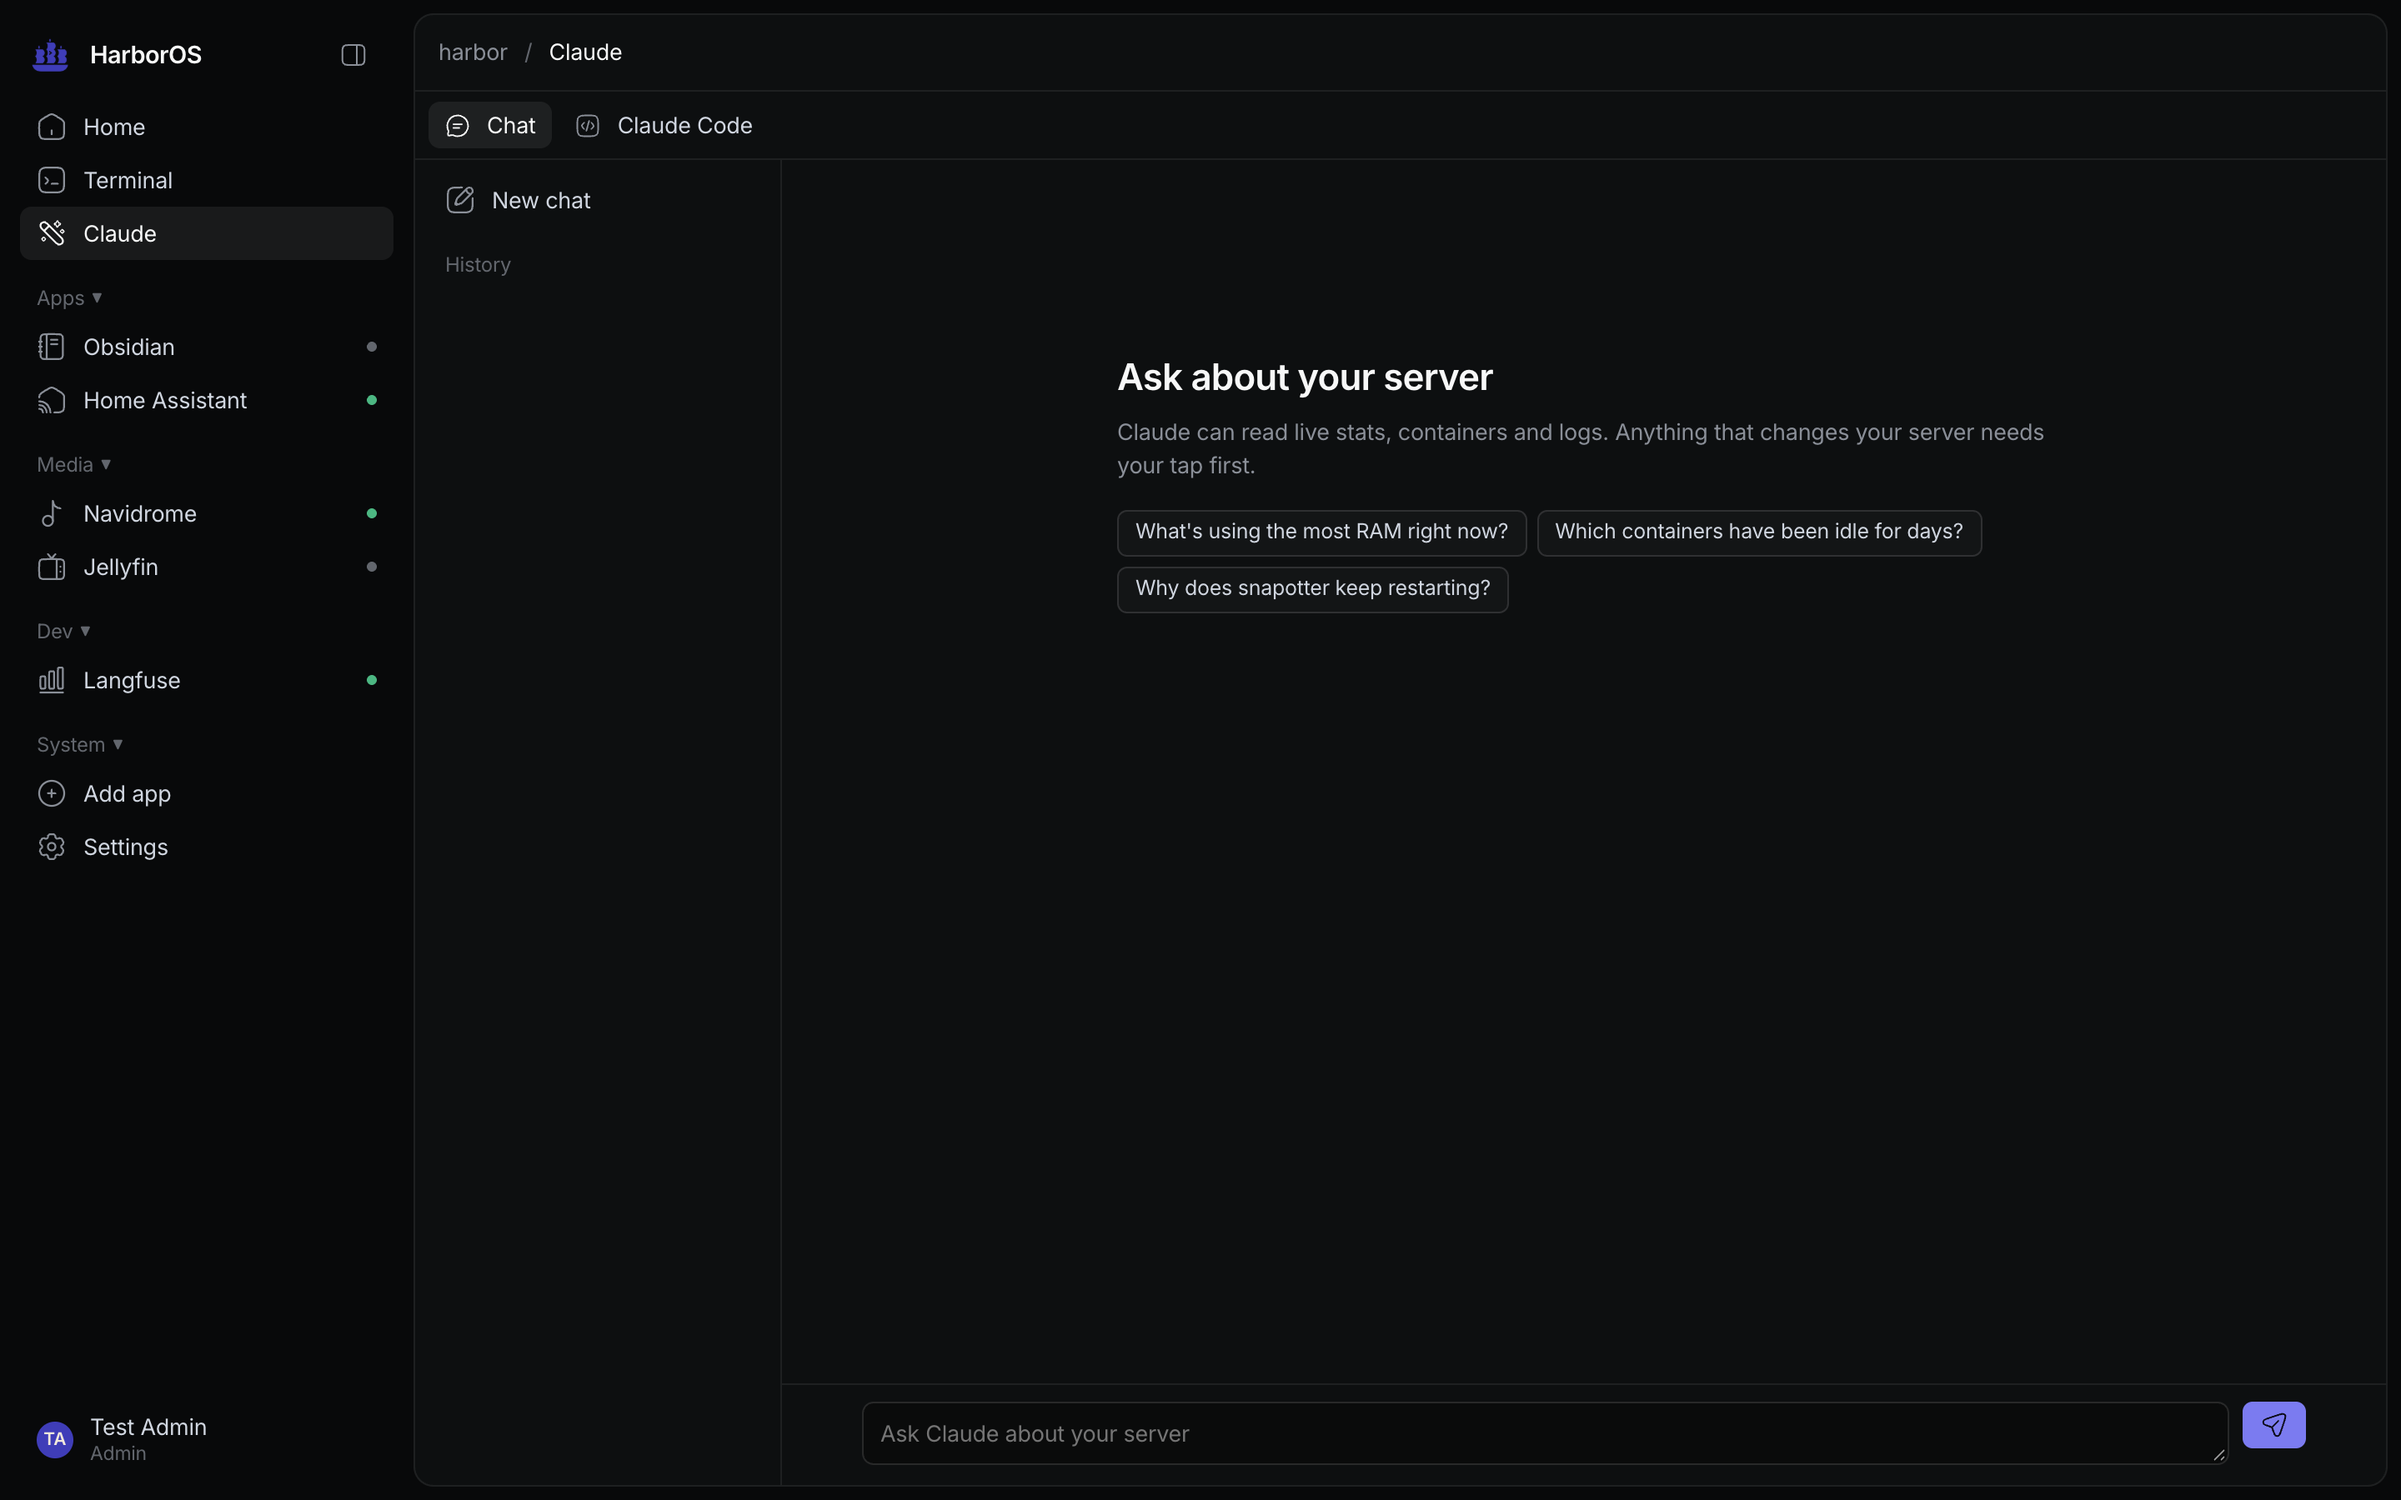
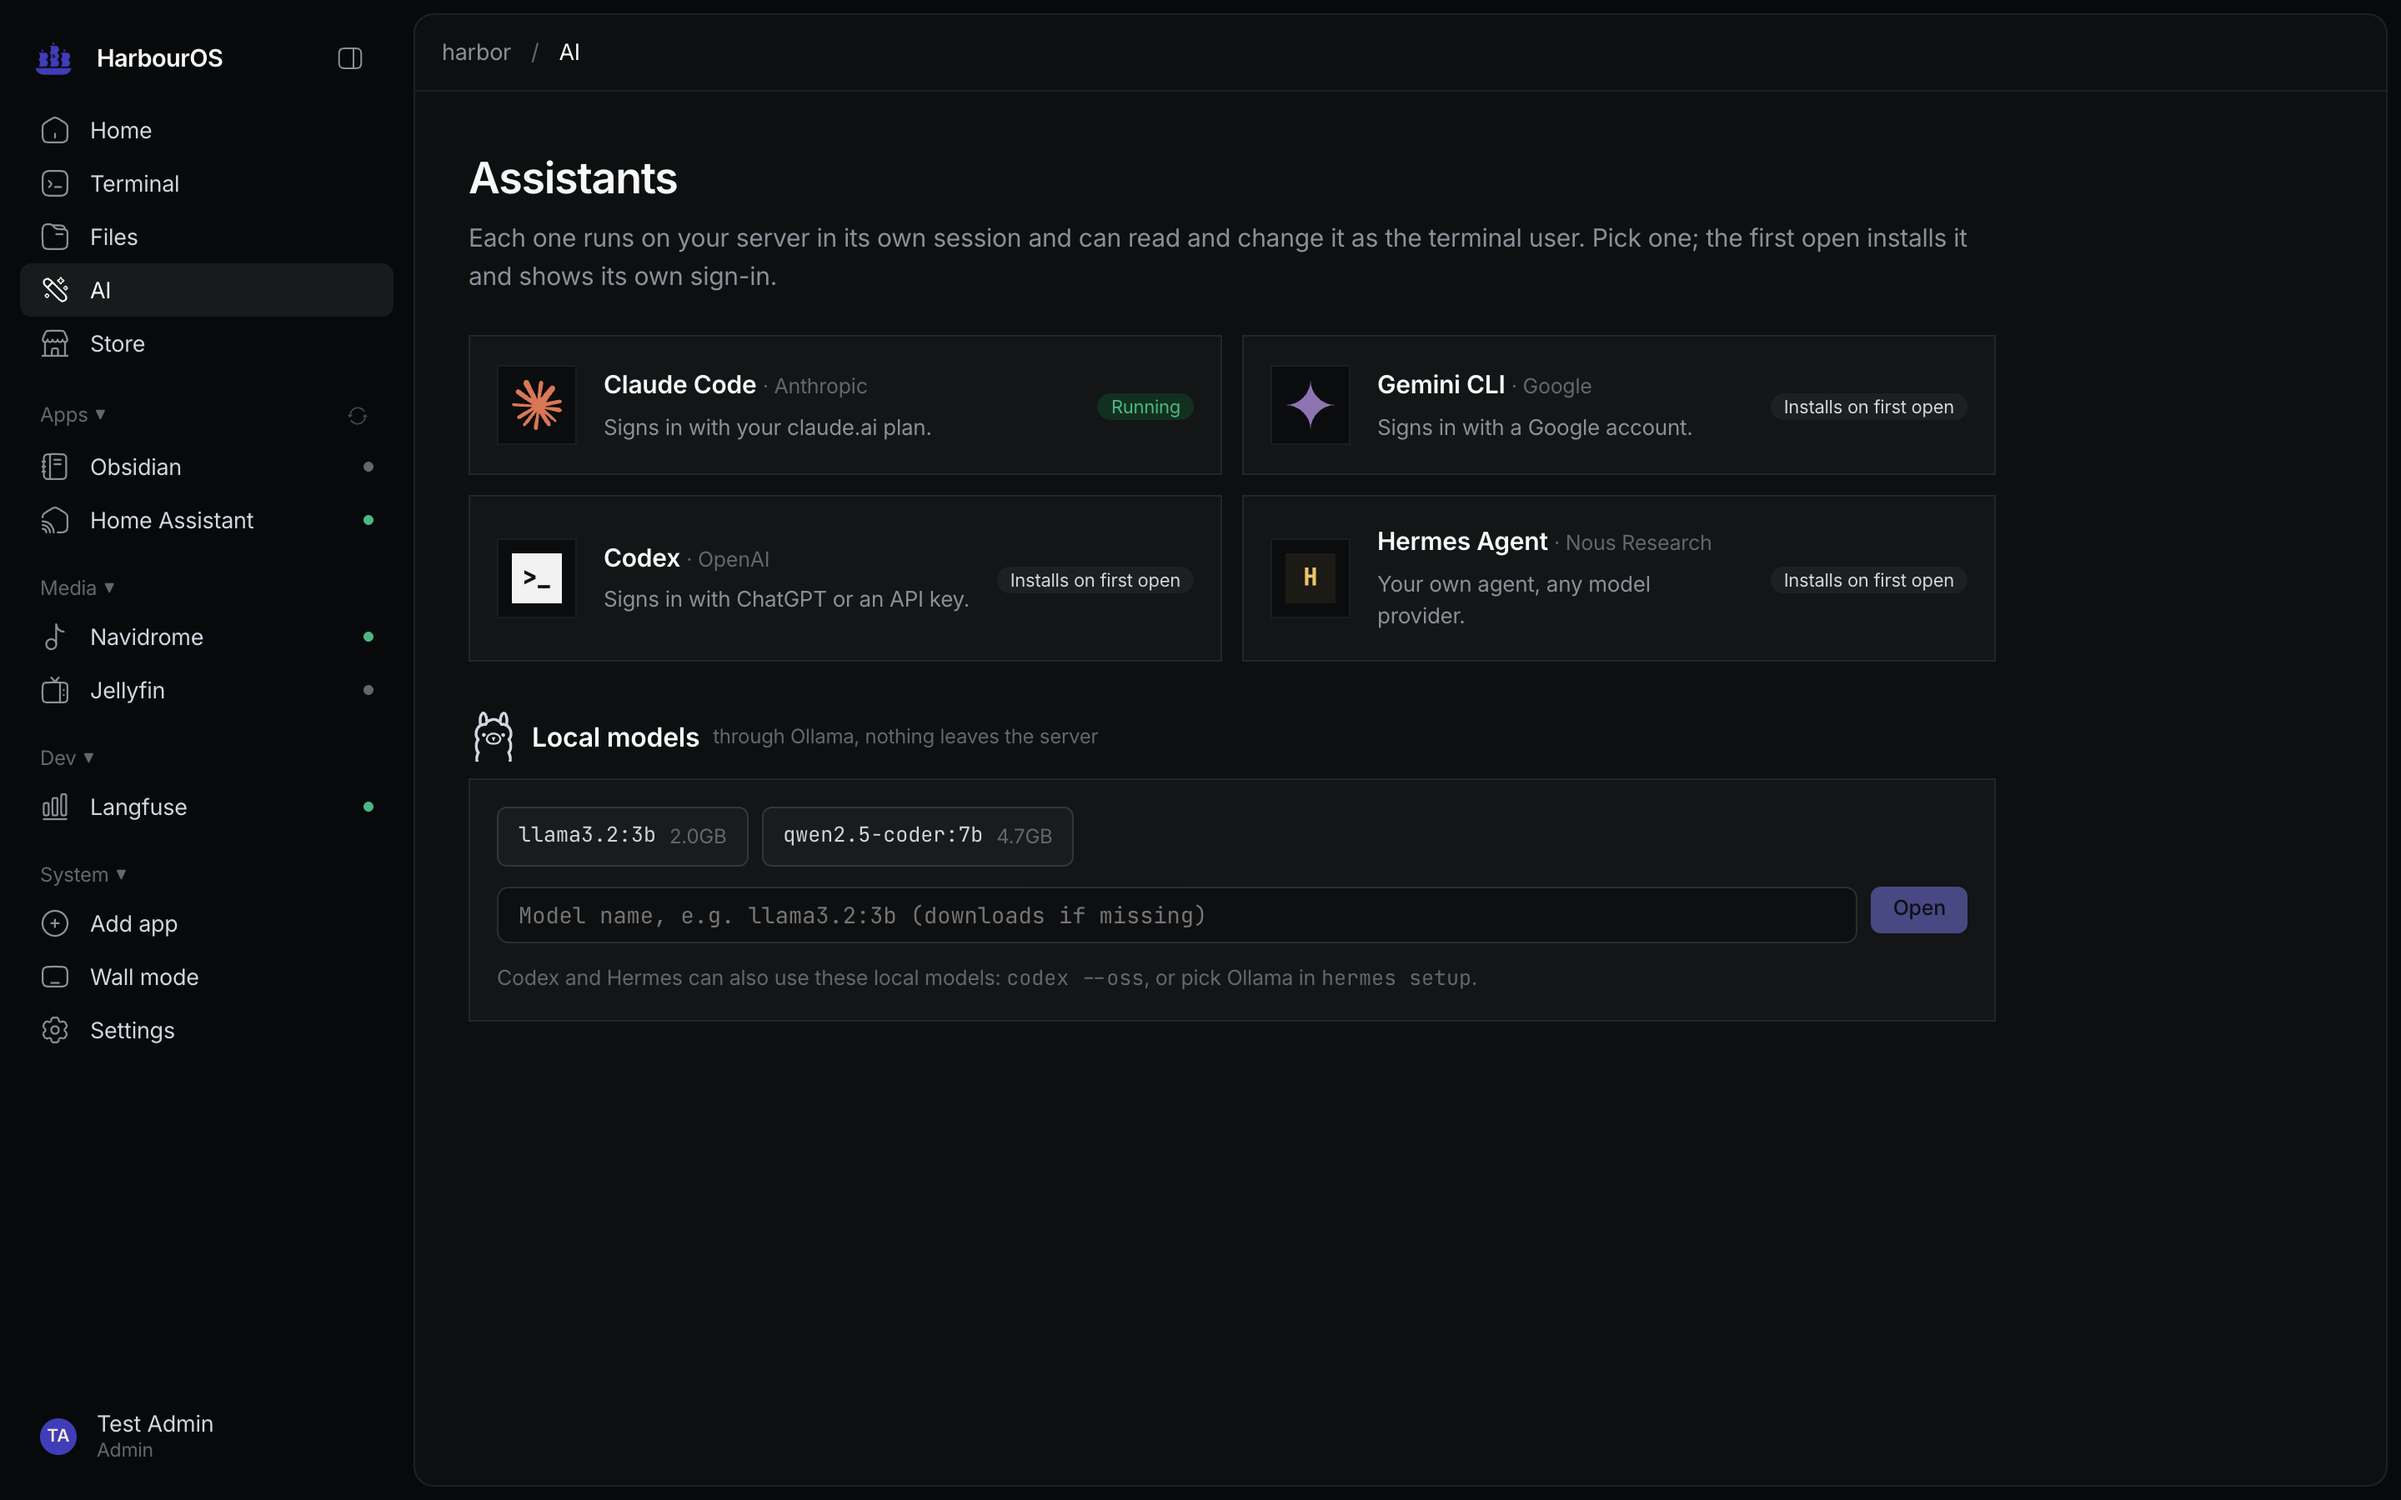
Guide: refreshed screenshots with the HarbourOS name

diff --git a/docs/GUIDE.md b/docs/GUIDE.md
@@ -38,7 +38,7 @@ Everything in detail. For the short version, see the [README](../README.md).
   </tr>
   <tr>
     <td><img src="screenshots/settings-users.png" alt="Settings page with user roles, sign-up toggle and sign-in background"><br><sub><b>Users and settings.</b> Approve sign-ups, change roles, pick backgrounds.</sub></td>
-    <td><img src="screenshots/claude.png" alt="Claude chat empty state with suggested questions"><br><sub><b>Claude.</b> Asks about your server; actions need your tap.</sub></td>
+    <td><img src="screenshots/claude.png" alt="AI page with Claude Code, Codex, Gemini CLI, Hermes and local Ollama models"><br><sub><b>AI.</b> Assistants that can look at your server; actions need your tap.</sub></td>
   </tr>
   <tr>
     <td><img src="screenshots/store.png" alt="App store with the most-downloaded app per category and a grid of apps with download counts and memory"><br><sub><b>Store.</b> Most-downloaded first, search and categories.</sub></td>
